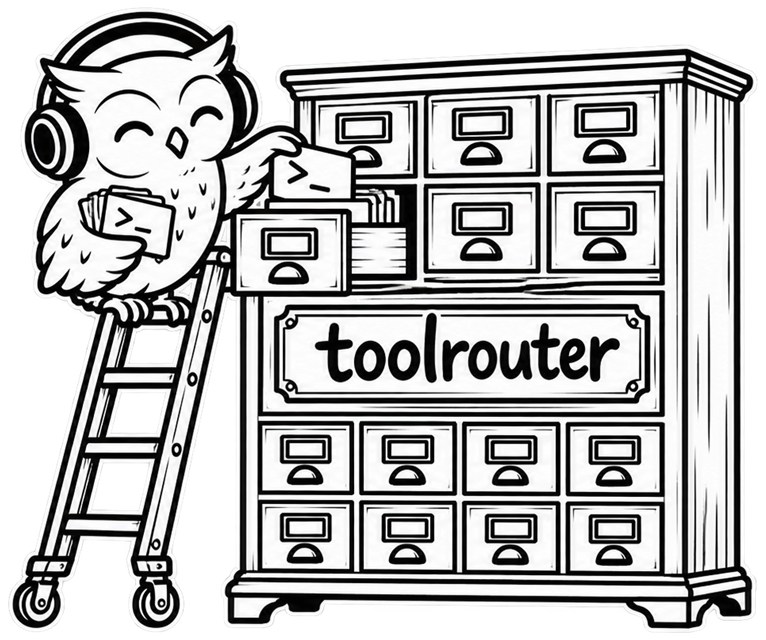
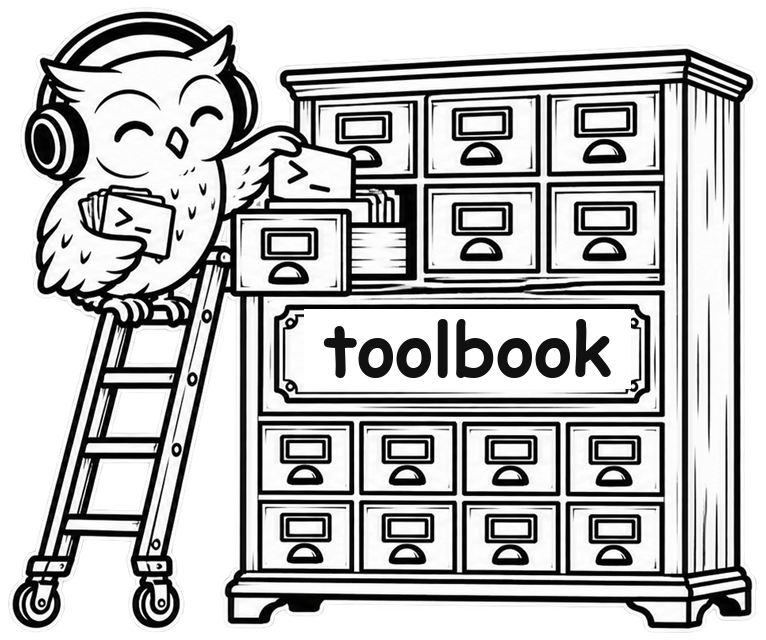
Rebrand README and images to toolbook

Changed region(s): [[0.3903, 0.4688, 0.8407, 0.5938]]

diff --git a/README.md b/README.md
@@ -1,5 +1,5 @@
 <p align="center">
-  <img src="assets/hero.png" width="420" alt="toolrouter: a line-drawn owl with headphones on a rolling ladder, filing terminal prompt cards into a card catalogue labelled toolrouter">
+  <img src="assets/hero.png" width="420" alt="toolbook: a line-drawn owl with headphones on a rolling ladder, filing terminal prompt cards into a card catalogue labelled toolbook">
 </p>
 
 <p align="center">
@@ -11,7 +11,7 @@
 </p>
 
 <p align="center">
-  <img src="https://img.shields.io/badge/python-3.10%2B-3776AB" alt="Python 3.10+">
+  <img src="https://img.shields.io/badge/python-3.11%2B-3776AB" alt="Python 3.11+">
   <img src="https://img.shields.io/badge/required%20dependencies-0-1a7f64" alt="No required dependencies">
   <img src="https://img.shields.io/badge/tested%20on-Windows-0078D4" alt="Tested on Windows">
 </p>
@@ -19,25 +19,25 @@
 <br>
 
 <p align="center">
-  <img src="assets/demo.gif" width="800" alt="Terminal demo: pytest -v prints a wall of output; toolrouter exec prints 11 lines with the failing test and summary; toolrouter search finds the img recipe; toolrouter run json reads a version">
+  <img src="assets/demo.gif" width="800" alt="Terminal demo: pytest -v prints a wall of output; toolbook exec prints 11 lines with the failing test and summary; toolbook search finds the img recipe; toolbook run json reads a version">
 </p>
 
 <p align="center"><i><code>pytest -v</code>: 261 lines in, 11 out, the failure kept.</i></p>
 
 <p align="center">
-  <img alt="Bar chart: raw shell output is 5.26M tokens; through toolrouter exec it is 956k tokens, 81.8% less, with 99.84% of error lines kept." src="assets/bench.svg">
+  <img alt="Bar chart: raw shell output is 5.26M tokens; through toolbook exec it is 956k tokens, 81.8% less, with 99.84% of error lines kept." src="assets/bench.svg">
 </p>
 
 <br>
 
-# toolrouter is the tool memory your coding agent is missing.
+# toolbook is the tool memory your coding agent is missing.
 
 Open-source glue between coding agents and the tools they call.
 
-**If your agent is the _cook_, toolrouter is the _recipe book_.**
+**If your agent is the _cook_, toolbook is the _recipe book_.**
 
 Your agent keeps rewriting the same commands, hitting the same traps, and reading 5,000 lines
-to find one error. toolrouter remembers the commands that worked, attaches the fix it knows,
+to find one error. toolbook remembers the commands that worked, attaches the fix it knows,
 and hands back only the lines that matter. It looks like a command wrapper. Under the hood:
 learned recipes, trap hints, output shrinking, engines, a browser and MCP, all answering in one
 shape.
@@ -46,17 +46,17 @@ shape.
 
 |        | Step            | Example                                                                 |
 | ------ | --------------- | ----------------------------------------------------------------------- |
-| **01** | Install it      | _`uv tool install git+https://github.com/Wasif-ZA/toolrouter`_                                           |
+| **01** | Install it      | _`uv tool install toolbook`_                                           |
 | **02** | Tell your agent | _Paste [four lines](#use-with-claude-code-or-codex) into `CLAUDE.md` or `AGENTS.md`._ |
-| **03** | Work as normal  | _Once a week, `toolrouter learn --review` and keep what is worth keeping._ |
+| **03** | Work as normal  | _Once a week, `toolbook learn --review` and keep what is worth keeping._ |
 
 > [!TIP]
 > **🦉 Or hand the whole thing to your agent.** Paste this into Claude Code or Codex:
 >
 > ```text
-> Install toolrouter with `uv tool install git+https://github.com/Wasif-ZA/toolrouter`.
+> Install toolbook with `uv tool install toolbook`.
 > Then add the "Use with Claude Code or Codex" lines from its README to my CLAUDE.md
-> (or AGENTS.md for Codex), and run `toolrouter` to show me the menu.
+> (or AGENTS.md for Codex), and run `toolbook` to show me the menu.
 > ```
 
 <br>
@@ -79,13 +79,13 @@ shape.
   </tr>
 </table>
 
-<em>If it can run a shell command, it can use toolrouter.</em>
+<em>If it can run a shell command, it can use toolbook.</em>
 
 </div>
 
 <br>
 
-## toolrouter is right for you if
+## toolbook is right for you if
 
 - ✅ Your agent writes the **same inline python** or curl command every session
 - ✅ It **reads whole test logs** to find the one line that failed
@@ -99,10 +99,10 @@ shape.
 ## The four parts
 
 Four things have to work for an agent to stop re-learning its tools: what worked before, what
-went wrong before, how much it reads, and how every answer comes back. toolrouter is built
+went wrong before, how much it reads, and how every answer comes back. toolbook is built
 around exactly those four.
 
-<img src="assets/parts.png" alt="The four parts of toolrouter: Recipes (what worked before), Trap hints (the known fix), Shrink (only the lines that carry the answer), One shape (every tool answers the same way).">
+<img src="assets/parts.png" alt="The four parts of toolbook: Recipes (what worked before), Trap hints (the known fix), Shrink (only the lines that carry the answer), One shape (every tool answers the same way).">
 
 | Part | Built for | What it does |
 | --- | --- | --- |
@@ -136,7 +136,7 @@ Real output, captured from the commands shown.
 <tr>
 <td align="center" width="33%" valign="top">
 <h3>🧠 Learns your recipes</h3>
-<code>toolrouter learn</code> reads your Claude Code sessions and finds the commands your agent keeps rewriting. You approve each one.
+<code>toolbook learn</code> reads your Claude Code sessions and finds the commands your agent keeps rewriting. You approve each one.
 </td>
 <td align="center" width="33%" valign="top">
 <h3>🩹 Remembers the traps</h3>
@@ -154,45 +154,45 @@ Shell, recipes, Codex, a browser and MCP servers all come back as the same short
 </td>
 <td align="center" width="33%" valign="top">
 <h3>⏳ Background jobs</h3>
-Start Codex with <code>--background</code>, keep working, then collect it with <code>toolrouter jobs &lt;id&gt; --wait</code> from any folder.
+Start Codex with <code>--background</code>, keep working, then collect it with <code>toolbook jobs &lt;id&gt; --wait</code> from any folder.
 </td>
 <td align="center" width="33%" valign="top">
 <h3>🌐 Its own browser</h3>
-<code>toolrouter browse</code> drives Chrome directly: open, look, click, type, read, screenshot. No Playwright.
+<code>toolbook browse</code> drives Chrome directly: open, look, click, type, read, screenshot. No Playwright.
 </td>
 </tr>
 <tr>
 <td align="center" width="33%" valign="top">
 <h3>🔎 Plain-word search</h3>
-<code>toolrouter search resize image</code> finds the recipe, so the agent stops guessing flags.
+<code>toolbook search resize image</code> finds the recipe, so the agent stops guessing flags.
 </td>
 <td align="center" width="33%" valign="top">
 <h3>↩ Undo for edits</h3>
-The <code>replace</code> and <code>json-set</code> recipes snapshot a file first. <code>toolrouter undo</code> puts it back.
+The <code>replace</code> and <code>json-set</code> recipes snapshot a file first. <code>toolbook undo</code> puts it back.
 </td>
 <td align="center" width="33%" valign="top">
 <h3>📦 Nothing to install with it</h3>
-Python 3.10+ standard library. Only the <code>img</code> recipe wants Pillow.
+Python 3.11+ standard library. Only the <code>img</code> recipe wants Pillow.
 </td>
 </tr>
 </table>
 
 <br>
 
-## Problems toolrouter solves
+## Problems toolbook solves
 
-| Without toolrouter | With toolrouter |
+| Without toolbook | With toolbook |
 | --- | --- |
-| ❌ Every session your agent writes the same inline python to read one JSON field. | ✅ `toolrouter run json package.json .version`. One line, found by search, the same every time. |
-| ❌ A failing test run dumps 5,000 lines into context to show one assertion. | ✅ `toolrouter exec` returns the failure and the summary. The rest is in a log file if it is needed. |
+| ❌ Every session your agent writes the same inline python to read one JSON field. | ✅ `toolbook run json package.json .version`. One line, found by search, the same every time. |
+| ❌ A failing test run dumps 5,000 lines into context to show one assertion. | ✅ `toolbook exec` returns the failure and the summary. The rest is in a log file if it is needed. |
 | ❌ Your agent hits the same wrong endpoint, flag or shell again, and you correct it again. | ✅ The trap is written down once. The next time, the result carries the fix. |
-| ❌ The agent retries a broken command five times in a row. | ✅ After three failures in an hour, toolrouter tells it to stop and read the log. |
-| ❌ Codex runs in the background and nobody collects the answer. | ✅ `toolrouter jobs <id> --wait` collects it from any folder, in the same shape as everything else. |
+| ❌ The agent retries a broken command five times in a row. | ✅ After three failures in an hour, toolbook tells it to stop and read the log. |
+| ❌ Codex runs in the background and nobody collects the answer. | ✅ `toolbook jobs <id> --wait` collects it from any folder, in the same shape as everything else. |
 | ❌ A wrapper tool quietly rewrites commands and you cannot see what it learned. | ✅ No hook. Every recipe is a file you can read, and `learn --review` asks you first. |
 
 <br>
 
-## Why toolrouter is different
+## Why toolbook is different
 
 |                                   |                                                                                               |
 | --------------------------------- | --------------------------------------------------------------------------------------------- |
@@ -201,18 +201,18 @@ Python 3.10+ standard library. Only the <code>img</code> recipe wants Pillow.
 | **Only a person approves.**       | `learn --review` refuses to run inside an agent.                                             |
 | **The answer lines survive.**     | Error lines, tracebacks, exit codes and last lines are kept: 99.84% on 5,207 real outputs.   |
 | **Nothing is thrown away.**       | Every call keeps its full output on disk; the short result names the file.                  |
-| **Reversible edits.**             | Recipe writes take a snapshot first. `toolrouter undo` restores it.                           |
+| **Reversible edits.**             | Recipe writes take a snapshot first. `toolbook undo` restores it.                           |
 | **No hook.**                      | It runs only when called, so it never changes how your agent works behind your back.         |
 
 <br>
 
 ## What's under the hood
 
-toolrouter is one command with eight parts, all in the Python standard library:
+toolbook is one command with eight parts, all in the Python standard library:
 
 ```
 ┌──────────────────────────────────────────────────────────────┐
-│                          TOOLROUTER                          │
+│                           TOOLBOOK                           │
 │                                                              │
 │  ┌───────────┐  ┌───────────┐  ┌───────────┐  ┌───────────┐  │
 │  │  exec and │  │  recipes  │  │ hints and │  │   learn   │  │
@@ -290,7 +290,7 @@ toolrouter is one command with eight parts, all in the Python standard library:
 
 <br>
 
-## What toolrouter is not
+## What toolbook is not
 
 |                               |                                                                                       |
 | ----------------------------- | ------------------------------------------------------------------------------------- |
@@ -309,25 +309,25 @@ Open source. Runs on your machine. No account.
 ### Install it yourself
 
 ```sh
-uv tool install git+https://github.com/Wasif-ZA/toolrouter
+uv tool install toolbook
 # or
-pip install git+https://github.com/Wasif-ZA/toolrouter
+pip install toolbook
 ```
 
-Run `toolrouter` for the menu.
+Run `toolbook` for the menu.
 
 ## Use with Claude Code or Codex
 
-There is no hook. The agent calls toolrouter because its instructions say to. Paste this into
+There is no hook. The agent calls toolbook because its instructions say to. Paste this into
 `CLAUDE.md` (Claude Code) or `AGENTS.md` (Codex):
 
 ```markdown
 ## Tools
-Run shell commands through toolrouter.
-- Look for a saved recipe first: `toolrouter search <words>`, then `toolrouter run <recipe> ...`.
-- Anything else: `toolrouter exec -- "<command>"`. Read the short result; it names the full log.
-- A command that worked and will be needed again: `toolrouter add <name> -- '<command, {1} for arguments>'`.
-- If toolrouter is missing or errors, run the plain command.
+Run shell commands through toolbook.
+- Look for a saved recipe first: `toolbook search <words>`, then `toolbook run <recipe> ...`.
+- Anything else: `toolbook exec -- "<command>"`. Read the short result; it names the full log.
+- A command that worked and will be needed again: `toolbook add <name> -- '<command, {1} for arguments>'`.
+- If toolbook is missing or errors, run the plain command.
 ```
 
 A person at a terminal gets readable text. An agent (`CLAUDECODE` or `AI_AGENT` set) gets one
@@ -340,26 +340,26 @@ line of JSON. `--json`, `--human` or `TOOLROUTER_OUTPUT` force either.
 
 | Goal | Command |
 |------|---------|
-| Run anything, get a short result | `toolrouter exec -- "pytest -q"` |
-| Read the whole output | `toolrouter exec --no-trunc -- "<command>"` |
-| Find a recipe in plain words | `toolrouter search resize image` |
-| See every recipe | `toolrouter list` |
-| Run a recipe | `toolrouter run json package.json .version` |
-| Keep a command that worked | `toolrouter add count-lines -- 'wc -l < {1}'` |
-| Check every recipe still works | `toolrouter check` |
-| Put back the last edit | `toolrouter undo` |
-| Ask Codex, wait or not | `toolrouter run codex "write tests for X" --background` |
-| Collect a background job | `toolrouter jobs <id> --wait` |
-| Drive a browser | `toolrouter browse open <url>`, then `look`, `click @n`, `type @n "x"`, `read`, `shot`, `close` |
-| Call an MCP server | `toolrouter mcp <server> <tool> '{"a": 1}'` |
-| Find an MCP server | `toolrouter mcp search <words>` |
-| Find recipe candidates | `toolrouter learn`, then `toolrouter learn --review` |
-| See where your tokens go | `toolrouter ingest --since 2026-09-27` |
+| Run anything, get a short result | `toolbook exec -- "pytest -q"` |
+| Read the whole output | `toolbook exec --no-trunc -- "<command>"` |
+| Find a recipe in plain words | `toolbook search resize image` |
+| See every recipe | `toolbook list` |
+| Run a recipe | `toolbook run json package.json .version` |
+| Keep a command that worked | `toolbook add count-lines -- 'wc -l < {1}'` |
+| Check every recipe still works | `toolbook check` |
+| Put back the last edit | `toolbook undo` |
+| Ask Codex, wait or not | `toolbook run codex "write tests for X" --background` |
+| Collect a background job | `toolbook jobs <id> --wait` |
+| Drive a browser | `toolbook browse open <url>`, then `look`, `click @n`, `type @n "x"`, `read`, `shot`, `close` |
+| Call an MCP server | `toolbook mcp <server> <tool> '{"a": 1}'` |
+| Find an MCP server | `toolbook mcp search <words>` |
+| Find recipe candidates | `toolbook learn`, then `toolbook learn --review` |
+| See where your tokens go | `toolbook ingest --since 2026-09-27` |
 
 ### Two modes
 
 - **learn** (default): only recipes you approved. `learn --review` asks yes or no for each one.
-- **auto**: `toolrouter mode auto` adds a catalogue of 49 popular CLI recipes, `--help` lookup
+- **auto**: `toolbook mode auto` adds a catalogue of 49 popular CLI recipes, `--help` lookup
   for anything on your PATH, and live search of the MCP registry. In this mode `learn` keeps
   candidates without asking.
 
@@ -372,7 +372,7 @@ line of JSON. `--json`, `--human` or `TOOLROUTER_OUTPUT` force either.
 </p>
 
 <p align="center">
-  <img alt="Bar chart: raw shell output is 5.26M tokens; through toolrouter exec it is 956k tokens, 81.8% less, with 99.84% of error lines kept." src="assets/bench.svg">
+  <img alt="Bar chart: raw shell output is 5.26M tokens; through toolbook exec it is 956k tokens, 81.8% less, with 99.84% of error lines kept." src="assets/bench.svg">
 </p>
 
 On 5,207 Bash outputs from real Claude Code transcripts:
@@ -392,7 +392,7 @@ will differ: `python bench/shrink_bench.py` reruns it on yours.
 
 | | Built around | How the agent uses it | Full output |
 |---|---|---|---|
-| **toolrouter** | Remembering how your agent calls tools: recipes, trap hints, engines | The agent calls it; no hook | Log file in `~/.toolrouter/logs/` |
+| **toolbook** | Remembering how your agent calls tools: recipes, trap hints, engines | The agent calls it; no hook | Log file in `~/.toolrouter/logs/` |
 | [rtk](https://github.com/rtk-ai/rtk) | Compact output for many common commands | A hook rewrites Bash commands | `rtk recall` |
 | [Headroom](https://github.com/headroomlabs-ai/headroom) | Compressing everything sent to the model | Proxy, library or MCP | Cached locally |
 
